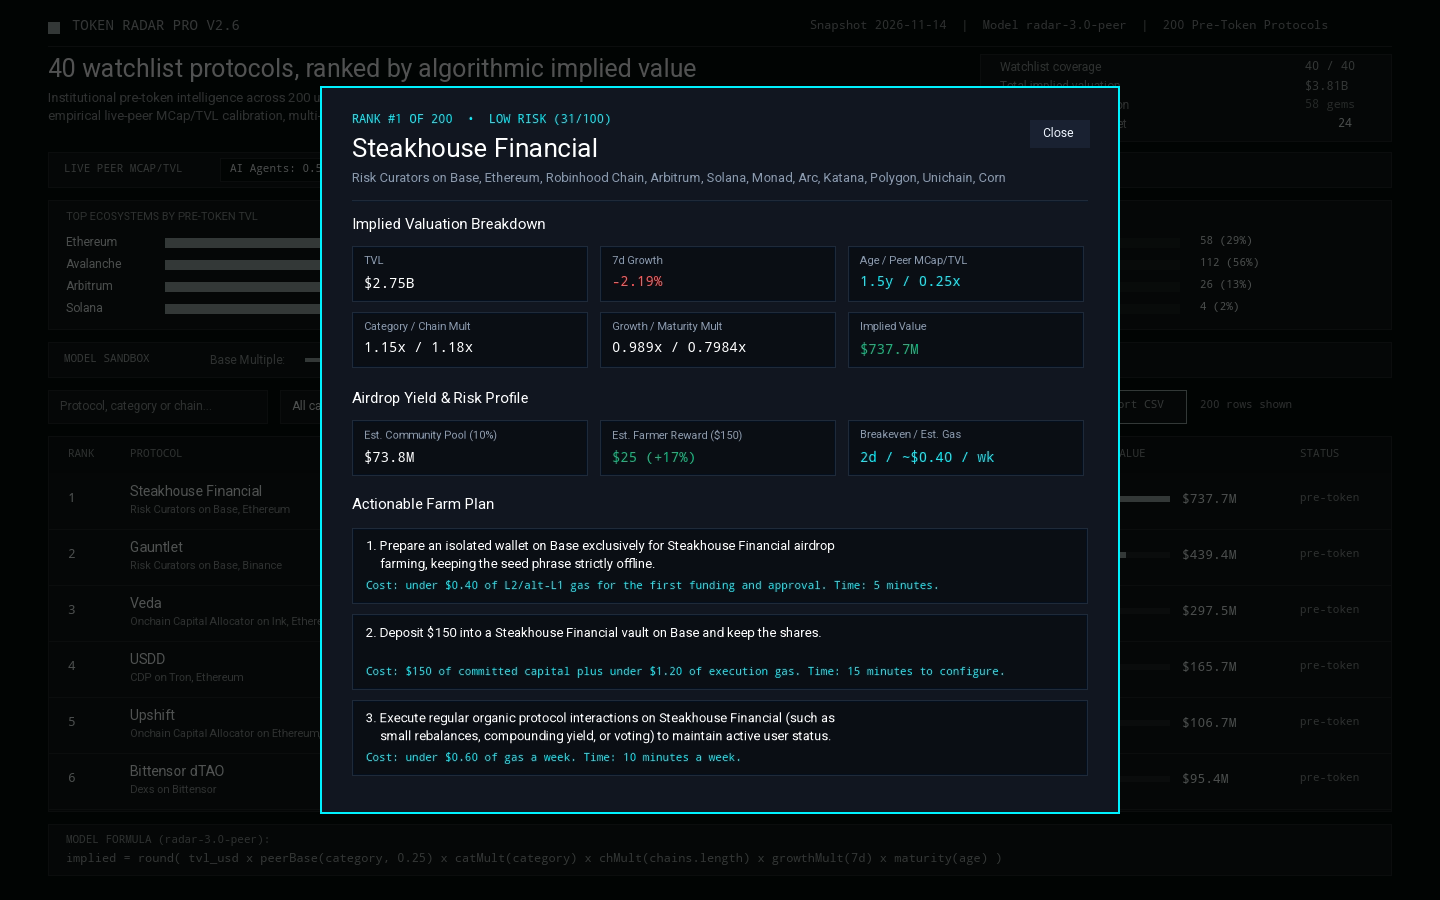
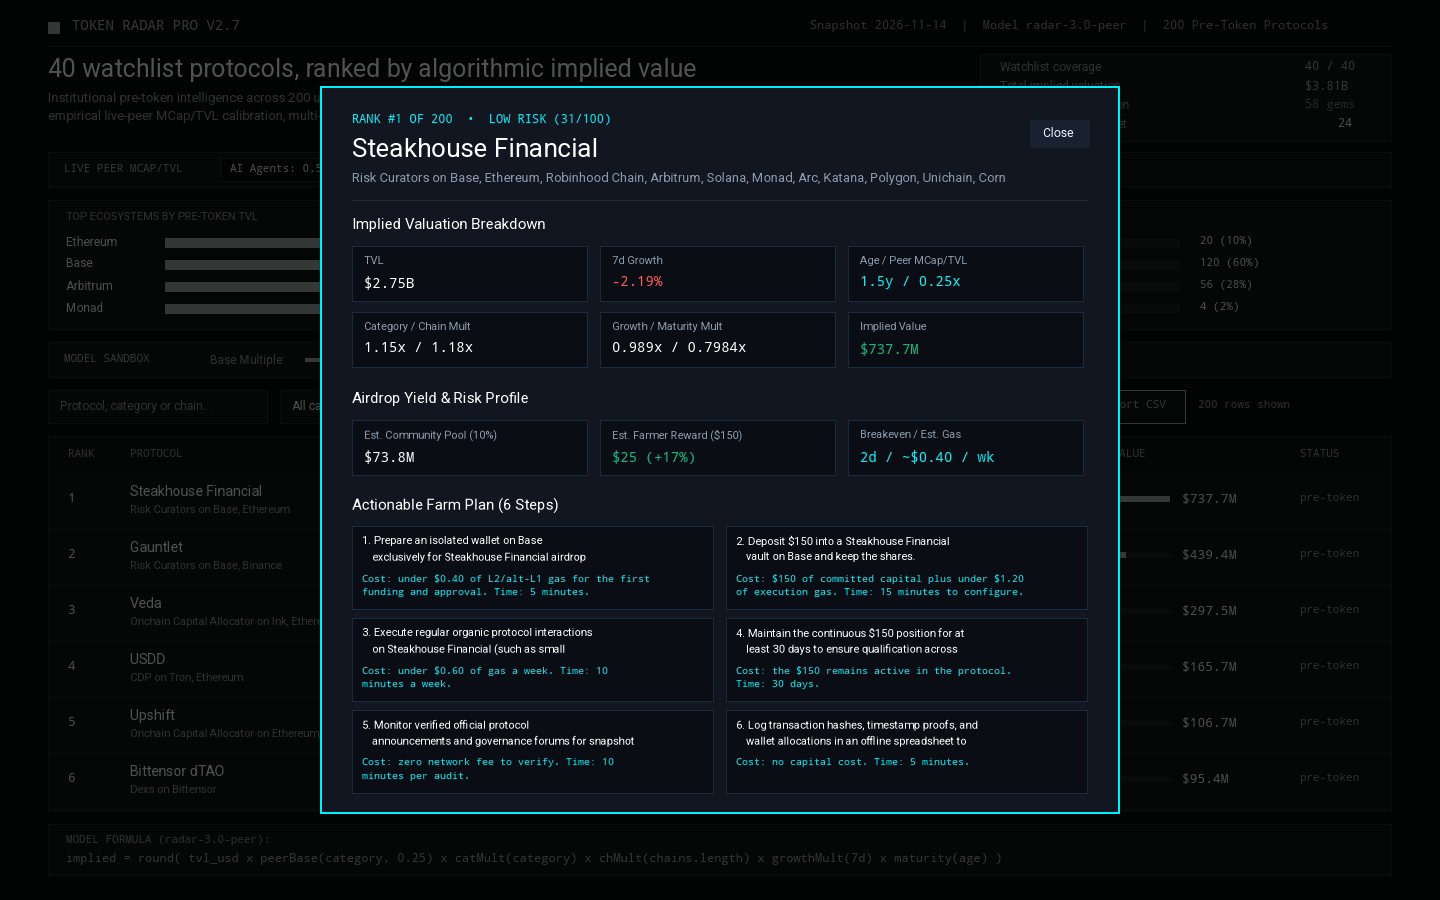
feat(v2.7): reactive filtered charts, 6-step grid detail view & live universe counts

Changed region(s): [[0.25, 0.56, 0.75, 0.8711]]

diff --git a/dashboard/app.js b/dashboard/app.js
@@ -273,7 +273,7 @@
     return el('header', { class: 'top' },
       el('div', { class: 'brand' },
         el('span', { class: 'mark', 'aria-hidden': 'true' }),
-        el('span', { class: 'brand-name', text: 'Token Radar Pro v2.6' })
+        el('span', { class: 'brand-name', text: 'Token Radar Pro v2.7' })
       ),
       el('div', { class: 'top-meta' },
         el('span', { text: 'Snapshot ' + DATA.as_of }),
@@ -337,10 +337,10 @@
     );
   }
 
-  function analyticsCharts() {
+  function analyticsCharts(rowsList) {
     var chainMap = {};
     var riskCounts = { LOW: 0, MEDIUM: 0, HIGH: 0, SPECULATIVE: 0 };
-    enrichedRows().forEach(function (it) {
+    rowsList.forEach(function (it) {
       riskCounts[it.risk.tier] += 1;
       (it.row.chains || []).forEach(function (ch) {
         chainMap[ch] = (chainMap[ch] || 0) + it.row.tvl_usd;
@@ -366,7 +366,7 @@
       { key: 'HIGH', label: 'HIGH', color: '#f59e0b', count: riskCounts.HIGH },
       { key: 'SPECULATIVE', label: 'SPECULATIVE', color: '#ff5c5c', count: riskCounts.SPECULATIVE }
     ];
-    var totalRows = Math.max(1, DATA.rows.length);
+    var totalRows = Math.max(1, rowsList.length);
     var riskSvg = svgEl('svg', { class: 'chart-svg', viewBox: '0 0 540 165' });
     tiers.forEach(function (t, i) {
       var y = 16 + i * 36;
@@ -472,11 +472,11 @@
         el('label', { text: 'Universe' }),
         el('div', { class: 'tabs', role: 'group', 'aria-label': 'Universe' },
           el('button', {
-            type: 'button', 'aria-pressed': String(state.tab === 'pre-token'), text: 'Pre-token',
+            type: 'button', 'aria-pressed': String(state.tab === 'pre-token'), text: 'Pre-token (' + DATA.rows.length + ')',
             onclick: function () { state.tab = 'pre-token'; writeHash(); render(); }
           }),
           el('button', {
-            type: 'button', 'aria-pressed': String(state.tab === 'live'), text: 'Live token',
+            type: 'button', 'aria-pressed': String(state.tab === 'live'), text: 'Live token (' + DATA.live.length + ')',
             onclick: function () { state.tab = 'live'; writeHash(); render(); }
           })
         )
@@ -671,7 +671,7 @@
     shell.appendChild(lede());
     if (state.tab === 'pre-token') {
       shell.appendChild(peerStrip());
-      shell.appendChild(analyticsCharts());
+      shell.appendChild(analyticsCharts(visibleRows()));
       shell.appendChild(sandboxPanel());
     }
     shell.appendChild(controls());

diff --git a/dashboard/app.css b/dashboard/app.css
@@ -162,7 +162,7 @@ dialog.detail::backdrop { background: rgba(5, 8, 12, 0.78); backdrop-filter: blu
 .equation > div { background: var(--canvas); border: 1px solid var(--border); border-radius: 8px; padding: var(--step-2) var(--step-3); display: grid; gap: 2px; }
 .equation span { font-size: 11px; color: var(--muted); }
 .equation b { font-size: 14px; color: #ffffff; }
-.steps { margin: 0; padding-left: 20px; display: grid; gap: var(--step-2); }
+.steps { margin: 0; padding-left: 0; list-style: none; display: grid; grid-template-columns: repeat(2, minmax(0, 1fr)); gap: var(--step-2); }
 .steps li { background: var(--canvas); border: 1px solid var(--border); border-radius: 8px; padding: var(--step-2) var(--step-3); display: grid; gap: 2px; }
 .steps .cost { font-family: var(--font-num); font-size: 11px; color: var(--accent); }
 .empty { padding: var(--step-6); text-align: center; color: var(--muted); }
